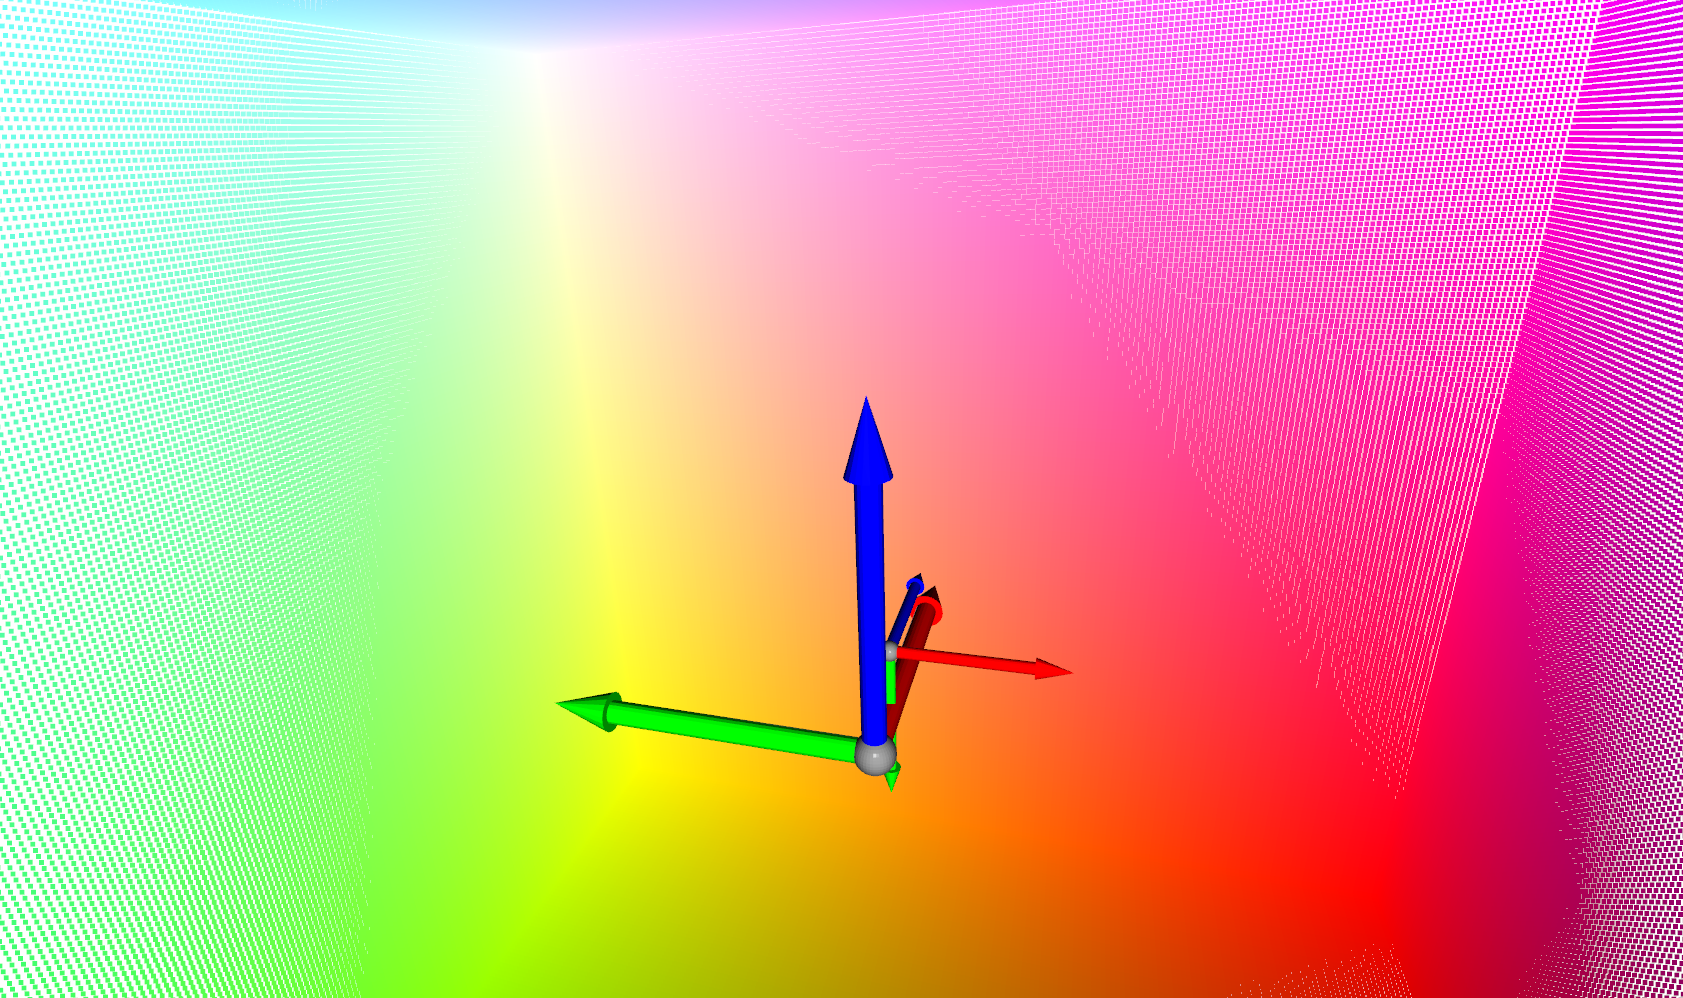
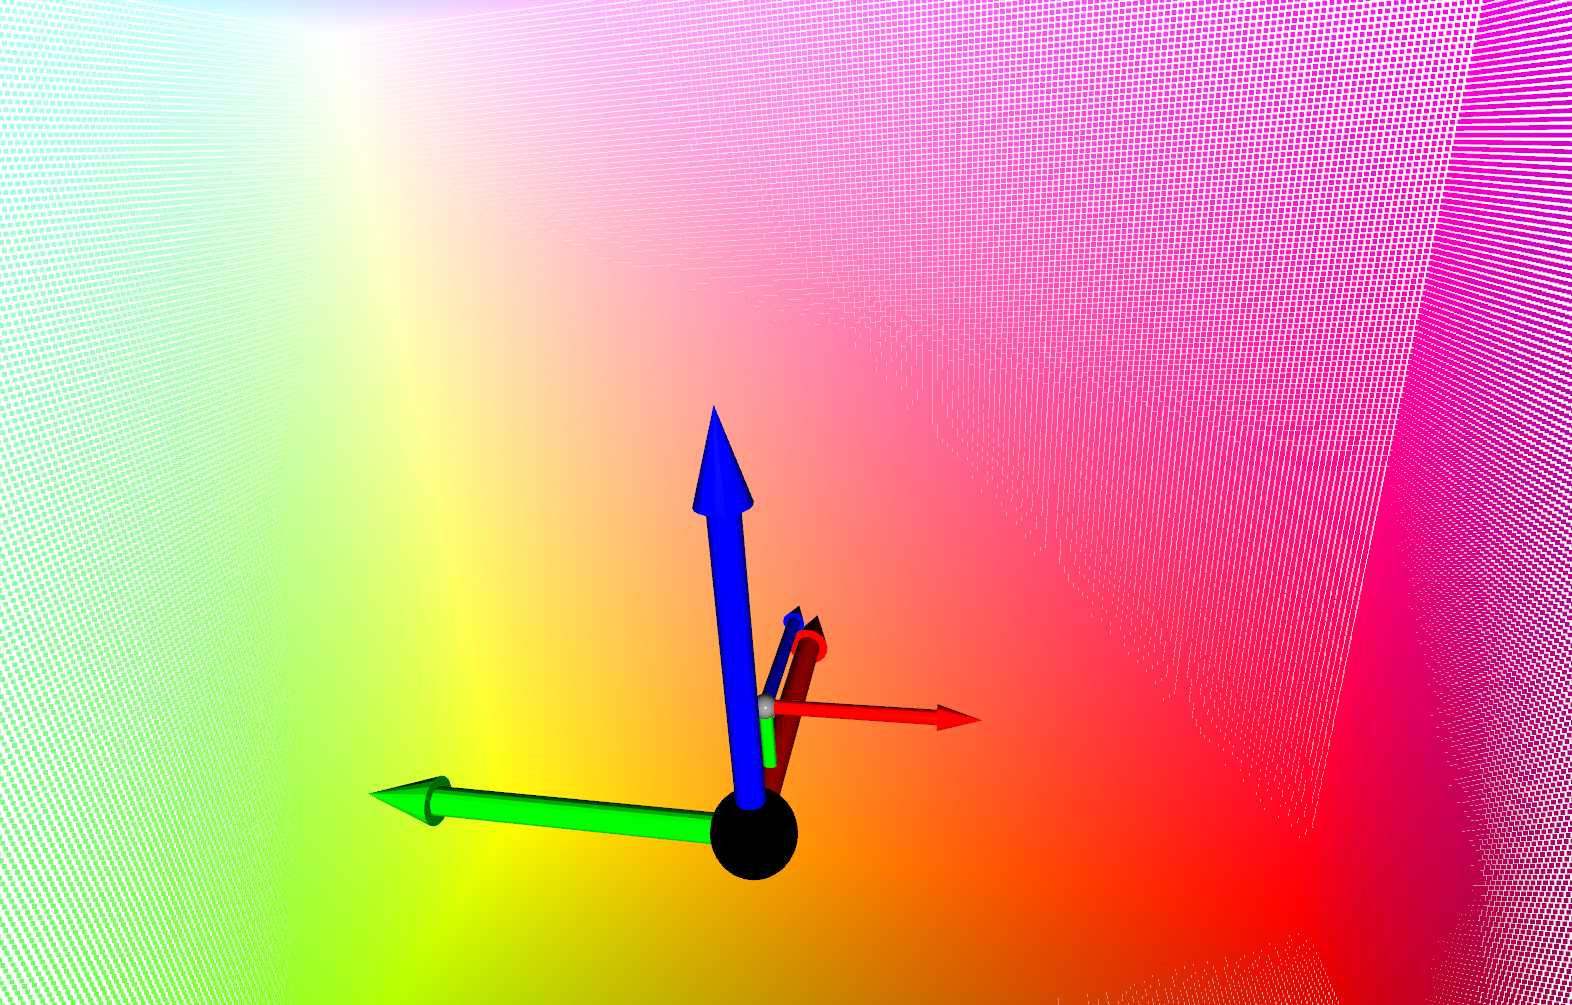
Initial demonstration completed.

diff --git a/pointcloud_projection.py b/pointcloud_projection.py
@@ -2,7 +2,6 @@ import open3d as o3d
 from image_geometry import PinholeCameraModel
 from sensor_msgs.msg import CameraInfo
 import yaml
-import pickle
 
 import numpy as np
 from skimage import draw
@@ -12,6 +11,7 @@ import spatialmath as sm
 import os
 import copy
 import time
+import cv2
 
 
 def init_camera_model(camera_model_path : str) -> PinholeCameraModel:
@@ -36,28 +36,34 @@ def init_camera_model(camera_model_path : str) -> PinholeCameraModel:
     return camera_model
 
 
-def project_to_image(pcd, radius: int = 20):
+def project_to_image(pcd, z_filter_on : bool = True, flip : bool = False, radius: int = 20):
+    # cv2.namedWindow("Image", cv2.WINDOW_NORMAL)
     image = np.ones((cam_model.height, cam_model.width, 3), dtype='uint8') * 255
-    for idx, (point, colour) in enumerate(zip(pcd.points, pcd.colors)):
 
-        x, y, z = point
-        if z < 0:
+    points = np.asarray(pcd.points)
+    colors = np.asarray(pcd.colors)
+    if flip:
+        # only doing this because by chance the ordering of the point cloud
+        # has the yellow-magenta side later than the blue-green side. So this
+        # is used to demonstrate importance of the z filter. All it does is reverse
+        # the order of the points in the array, it doesn't change the data itself
+        points = np.flipud(points)
+        colors = np.flipud(colors)
+
+    for (point, colour) in zip(points, colors):
+
+        x, y, z = point        
+        if z_filter_on and z < 0:
             continue # ignore points behind image plane
-
         (u,v) = cam_model.project3dToPixel((x, y, z))
-
-        if point[0] == 0 and point[1] == 0 and point[2] == 2:
-            print("u,v:",u,v, colour)
-
-        # print("IDX: %02d, (x,y): %f, %f, (u,v): %0.2f, %0.2f -- "%(idx, x, y, u, v), end='')
 
         # Paint pixel
         if (u >= 0 and v >= 0) and (u < cam_model.width and v < cam_model.height):
-            # print("Valid -- index: %02d, (x,y): %f, %f, (u,v): %0.2f, %0.2f, colour: %f, %f, %f"%(idx, x, y, u, v, *colour))
             rr, cc = draw.ellipse(v, u, r_radius=radius, c_radius=radius, shape=image.shape) #TODO this should be more complicated shape
             image[rr,cc,:] = colour*255
-        # else:
-            # print("Invalid")
+
+        # cv2.imshow("Image", image)
+        # cv2.waitKey(1)
     
     return image
 
@@ -88,34 +94,6 @@ def create_cube(cube_size, num_pts):
     return points, colours
 
 
-# def create_surface(side_size, num_pts, z_plane):
-#     # Create points vector
-#     xx, yy, zz = np.meshgrid(np.linspace(-side_size, side_size, num_pts), np.linspace(-side_size, side_size, num_pts), np.linspace(-side_size, side_size, num_pts))
-#     xx = xx.reshape(-1)
-#     yy = yy.reshape(-1)
-#     zz = zz.reshape(-1)
-
-#     points = np.zeros((xx.shape[0], 3))
-#     points[:,0] = xx
-#     points[:,1] = yy
-#     points[:,2] = z_plane
-
-#     points = np.unique(points, axis=0)
-#     print(points.shape)
-#     points = np.vstack([points, [0,0,z_plane]])
-#     print(points.shape)
-
-#     # Colour vector
-#     colours = np.zeros_like(points)
-#     colours[:,0] = (points[:,0] - points[:,0].min()) / (points[:,0].max() - points[:,0].min())
-#     colours[:,1] = (points[:,1] - points[:,1].min()) / (points[:,1].max() - points[:,1].min())
-#     colours[:,2] = (points[:,2] - points[:,2].min()) / (points[:,2].max() - points[:,2].min())
-#     colours[-1, :] = [0,0,1] # blue origin
-
-#     # Return points and colours
-#     return points, colours
-
-
 def visualise_coordinate_frames(camera_optical_frame):
     base_link_coord = o3d.geometry.TriangleMesh.create_coordinate_frame()
     base_link_coord.scale(1, center=(0, 0, 0))
@@ -128,6 +106,9 @@ def visualise_coordinate_frames(camera_optical_frame):
 
 
 def visualise_cube_and_coordinate_frames(pcd, camera_optical_frame):
+    origin_pcd = o3d.geometry.TriangleMesh.create_sphere(0.1)
+    origin_pcd.paint_uniform_color([0,0,0])
+
     base_link_coord = o3d.geometry.TriangleMesh.create_coordinate_frame()
     base_link_coord.scale(1, center=(0, 0, 0))
 
@@ -135,18 +116,34 @@ def visualise_cube_and_coordinate_frames(pcd, camera_optical_frame):
     camera_optical_coord.scale(0.5, center=(0, 0, 0))
     camera_optical_coord.transform(camera_optical_frame.A) 
 
-    o3d.visualization.draw_geometries([pcd, base_link_coord, camera_optical_coord])
+    o3d.visualization.draw_geometries([pcd, base_link_coord, camera_optical_coord, origin_pcd])
 
 
-def visualise_cube_results(pcd_original, pcd, image_original, image_trans, optical_frame):
-    f, (ax1, ax2) = plt.subplots(1,2)
-    ax1.imshow(image_original)
-    ax1.set_title("Original")
-    ax2.imshow(image_trans)
-    ax2.set_title("Transformed")
+def visualise_transformed_point_clouds(pcd_transform_correct, pcd_transform_incorrect, camera_optical_frame):
 
-    plt.show(block=False)
-    plt.pause(1)
+    # Create point cloud origin and transform by same amount as we did the actual point cloud
+    origin_pcd_transform_correct = o3d.geometry.TriangleMesh.create_sphere(0.1)
+    origin_pcd_transform_correct.transform(camera_optical_frame.inv().A)
+    origin_pcd_transform_correct.paint_uniform_color([0,0,0])
+
+    origin_pcd_transform_incorrect = o3d.geometry.TriangleMesh.create_sphere(0.1)
+    origin_pcd_transform_incorrect.transform(camera_optical_frame.A)
+    origin_pcd_transform_incorrect.paint_uniform_color([0,0,0])
+
+
+    # Create coordinate frames, where camera optical frame is now at the origin
+    base_link_coord = o3d.geometry.TriangleMesh.create_coordinate_frame()
+    base_link_coord.scale(1, center=(0, 0, 0))
+    base_link_coord.transform(camera_optical_frame.inv().A)
+    # camera frame is origin, so need to move base link frame by inverse of base link to optical frame
+
+    camera_optical_coord = o3d.geometry.TriangleMesh.create_coordinate_frame()
+    camera_optical_coord.scale(0.5, center=(0, 0, 0))
+
+    camera_optical_orig_coord = o3d.geometry.TriangleMesh.create_coordinate_frame()
+    camera_optical_orig_coord.scale(0.25, center=(0, 0, 0))
+    camera_optical_orig_coord.transform(camera_optical_frame.A)
+    # camera_optical_orig_coord.paint_uniform_color([0.2, 0.2, 0.2])
 
     # Open3d
     o3d.visualization.gui.Application.instance.initialize()
@@ -156,61 +153,47 @@ def visualise_cube_results(pcd_original, pcd, image_original, image_trans, optic
 
     w = o3d.visualization.gui.Application.instance.create_window()
 
-    # World Frame
-    world_coord = o3d.geometry.TriangleMesh.create_coordinate_frame()
-    world_coord.scale(1, center=(0, 0, 0))
+    # Correct Transform Scene
+    correct_scene = o3d.visualization.gui.SceneWidget()
+    correct_scene.scene = o3d.visualization.rendering.Open3DScene(w.renderer)
+    correct_scene.scene.add_geometry("Base", base_link_coord, mat)
+    correct_scene.scene.add_geometry("Optical", camera_optical_coord, mat)
+    correct_scene.scene.add_geometry("Pointcloud", pcd_transform_correct, mat)
+    correct_scene.scene.add_geometry("Origin", origin_pcd_transform_correct, mat)
+    # correct_scene.scene.add_geometry("OriginalCamera", camera_optical_orig_coord, mat)
+    correct_scene.setup_camera(60, correct_scene.scene.bounding_box, (0, 0, 0))
 
-    optical_coord = o3d.geometry.TriangleMesh.create_coordinate_frame()
-    optical_coord.scale(0.5, center=(0, 0, 0))
-    optical_coord.transform(optical_frame.A)
-
-    world_scene = o3d.visualization.gui.SceneWidget()
-    world_scene.scene = o3d.visualization.rendering.Open3DScene(w.renderer)
-    world_scene.scene.add_geometry("World", world_coord, mat)
-    world_scene.scene.add_geometry("Optical", optical_coord, mat)
-    world_scene.scene.add_geometry("Pointcloud", pcd_original, mat)
-    world_scene.setup_camera(60, world_scene.scene.bounding_box, (0, 0, 0))
-
-    # Optical Frame
-    optical_coord = o3d.geometry.TriangleMesh.create_coordinate_frame()
-    optical_coord.scale(0.5, center=(0, 0, 0))
-
-    world_coord = o3d.geometry.TriangleMesh.create_coordinate_frame()
-    world_coord.scale(1, center=(0, 0, 0))
-    world_coord.transform(optical_frame.inv().A)
-
-    optical_scene = o3d.visualization.gui.SceneWidget()
-    optical_scene.scene = o3d.visualization.rendering.Open3DScene(w.renderer)
-    optical_scene.scene.add_geometry("World", world_coord, mat)
-    optical_scene.scene.add_geometry("Optical", optical_coord, mat)
-    optical_scene.scene.add_geometry("Pointcloud", pcd, mat)
-    optical_scene.setup_camera(60, optical_scene.scene.bounding_box, (0, 0, 0))
+    # Incorrect Transform Scene
+    incorrect_scene = o3d.visualization.gui.SceneWidget()
+    incorrect_scene.scene = o3d.visualization.rendering.Open3DScene(w.renderer)
+    incorrect_scene.scene.add_geometry("Base", base_link_coord, mat)
+    incorrect_scene.scene.add_geometry("Optical", camera_optical_coord, mat)
+    incorrect_scene.scene.add_geometry("Pointcloud", pcd_transform_incorrect, mat)
+    incorrect_scene.scene.add_geometry("Origin", origin_pcd_transform_incorrect, mat)
+    # incorrect_scene.scene.add_geometry("OriginalCamera", camera_optical_orig_coord, mat)
+    incorrect_scene.setup_camera(60, incorrect_scene.scene.bounding_box, (0, 0, 0))
 
     # Add Child
-    w.add_child(world_scene)
-    w.add_child(optical_scene)
+    w.add_child(correct_scene)
+    w.add_child(incorrect_scene)
 
     def on_layout(theme):
         r = w.content_rect
-        world_scene.frame = o3d.visualization.gui.Rect(r.x, r.y, r.width / 2, r.height)
-        optical_scene.frame = o3d.visualization.gui.Rect(r.x + r.width / 2 + 1, r.y, r.width / 2, r.height)
+        correct_scene.frame = o3d.visualization.gui.Rect(r.x, r.y, r.width / 2, r.height)
+        incorrect_scene.frame = o3d.visualization.gui.Rect(r.x + r.width / 2 + 1, r.y, r.width / 2, r.height)
 
     w.set_on_layout(on_layout)
 
     o3d.visualization.gui.Application.instance.run()
 
 
-# def visualise_surface_results(pcd_original, image_original, block=False):
-#     # Image Vis
-#     plt.imshow(image_original)
-#     plt.show(block=block)
-#     plt.pause(1)
+def visualise_image(image):
+    f, (ax1) = plt.subplots(1,1)
+    ax1.imshow(image)
+    ax1.set_title("Image")
 
-#     # Open3d Vis
-#     world_coord = o3d.geometry.TriangleMesh.create_coordinate_frame()
-#     world_coord.scale(1, center=(0, 0, 0))
+    plt.show(block=True)
 
-#     o3d.visualization.draw_geometries([pcd_original, world_coord])
 
 
 
@@ -235,25 +218,32 @@ if __name__ == "__main__":
     pcd.colors = o3d.utility.Vector3dVector(colours)
 
     # Visualise point cloud and coordinate frames
-    print("\nVisualise the coloured cube point cloud")
-    # visualise_cube_and_coordinate_frames(pcd, camera_optical_frame)
+    print("\nVisualise the coloured cube")
+    visualise_cube_and_coordinate_frames(pcd, camera_optical_frame)
     
     # Copy original and transform point cloud to optical frame
-    pcd_original = copy.deepcopy(pcd)
-    pcd.transform(camera_optical_frame.A)
-    print(camera_optical_frame.inv())
-    print(camera_optical_frame.inv().rpy())
-    exit(0)
+    # Let's transform using current and inverse of camera optical frame transform
+    print("\nTransform the point cloud.")
+    pcd_transform_correct = copy.deepcopy(pcd)
+    pcd_transform_correct.transform(camera_optical_frame.inv().A)
 
-    # Project to image
-    image_original = project_to_image(pcd_original)
-    image_trans = project_to_image(pcd)
+    pcd_transform_incorrect = copy.deepcopy(pcd)
+    pcd_transform_incorrect.transform(camera_optical_frame.A)
+
+    # Visualise the two transformed point clouds
+    # visualise_transformed_point_clouds(pcd_transform_correct, pcd_transform_incorrect, camera_optical_frame)
+
+
+    # Project to image and visualise image
+    print("\nProjecting Image... without z-filter")
+    projected_image = project_to_image(pcd_transform_correct, False, True)
+    visualise_image(projected_image)
+
+    print("\nProjecting Image... with z-filter")
+    projected_image = project_to_image(pcd_transform_correct)
+    visualise_image(projected_image)
 
     # Visualisation
-    # if test == 'surface':
-    #     # print(image_trans[int(cam_model.height/2), int(cam_model.width/2), :])
-    #     visualise_surface_results(pcd_original, image_original, plot_blocks)
-    # else:
-    visualise_cube_results(pcd_original, pcd, image_original, image_trans, camera_optical_frame)
+    # visualise_cube_results(pcd_original, pcd, image_original, image_trans, camera_optical_frame)
 
 

diff --git a/README.md b/README.md
@@ -1,6 +1,6 @@
 # Understanding How To Project 3D Points Onto An Image Plane In ROS
 
-This is a short demonstration and tutorial on how you can project 3D points into an image using the [Image Geometry](http://docs.ros.org/en/kinetic/api/image_geometry/html/python/index.html) python module. Unfortunately, the documentation of the model is limited and doesn't define if the x, y, z coordinates for a point need to be in the optical or body frame of the camera (see [Suffix Frames in REP103](https://www.ros.org/reps/rep-0103.html#suffix-frames) for information on body vs optical frames for cameras). Additionally, the `project3dToPixel` image geometry function only can handle a single point at a time, this is computational inefficient and we can rewrite this function in Python to utilise Numpy to allow the projection of any number of points with a single call.
+This is a short demonstration and tutorial on how you can project 3D points into an image using the [Image Geometry](http://docs.ros.org/en/kinetic/api/image_geometry/html/python/index.html) python module. Unfortunately, the documentation of the model is limited and doesn't define if the x, y, z coordinates for a point need to be in the optical or body frame of the camera (see [Suffix Frames in REP103](https://www.ros.org/reps/rep-0103.html#suffix-frames) for information on body vs optical frames for cameras). Additionally, the `project3dToPixel` image geometry function only can handle a single point at a time, this is computational inefficient and we can rewrite this function in Python to utilise Numpy to allow the projection of any number of points with a single call. A working version of all the code can be found in [pointcloud_projection](pointcloud_projection.py)
 
 ## Getting Coordinate Frames Correct
 The first thing we will investigate is what coordinate frame a point must be in, before it is passed to the `project3dToPixel` function. To do this we will first create and visualise two coordinate frames and a coloured cube using the [SpatialMath](https://github.com/petercorke/spatialmath-python) and [Open3D](http://www.open3d.org/) libraries. The larger coordinate frame in the image below represents our base link frame, while the smaller frame is the optical frame of our camera and is located at [0.2, 0, 0.2] relative to our base link coordinate frame. Remember that for a optical frame the z-axis points forward, the x-axis to the right, and the y-axis down, as specified by [REP103](https://www.ros.org/reps/rep-0103.html). The cube is nicely coloured and the origin of the cube is at [0, 0, 0] and hence the origin is the same location as the base_link coordinate frame.
@@ -9,7 +9,7 @@ The first thing we will investigate is what coordinate frame a point must be in,
 
 ![Rotating Cube](/figures/cube_rotation.gif)
 
-If we now take at a look at position our coordinates frames inside the cube we can see that our base link and camera optical frame are pointing at the edge where yellow is in the bottom left and magenta is in the top right. Therefore, when we project the points onto an image we should have yellow in the bottom left and magenta in the top right. Let's see how we can make that happen.
+If we now take at a look at position our coordinates frames inside the cube we can see that our base link and camera optical frame are pointing at the edge where yellow is in the bottom left and magenta is in the top right. The black sphere represents the center of the point cloud and is located at [0, 0, 0]. Given this image, we can see that when we project the points onto an image we should have yellow in the bottom left and magenta in the top right. Let's see how we can make that happen.
 
 ![Inside The Cube](/figures/inside_cube.png)
 
@@ -20,16 +20,76 @@ import spatialmath as sm
 camera_optical_frame = sm.SE3(0.2, 0, 0.2) * sm.SE3.Ry(90, unit='deg') * sm.SE3.Rz(-90, unit='deg')
 ```
 
-We now have the base link to camera optical frame transform, and we need to shift our points into the camera frame. To do this we are going to use the following piece of sudo code:
+We now have the base link to camera optical frame transform, and we need to shift our points into the camera frame. To do this we are going to use the following piece of pseudo-code:
 
 ```python
 <open3d.geometry.PointCloud>.transform(<spatialmath.SE3>.A)
 ```
 
-where `<open3d.geometry.PointCloud>` is an Open3D point cloud containing the points we need to tranforms and `<spatialmath.SE3>` is a Spatial Math SE3 object that represents the appropriate transformation. You might intuitively think that the appropriate transformation is the base link to camera optical frame transform (the one we setup in the code snippet above). However, we actually want the inverse of this transform. Why? Well we want the camera optical frame to become the "origin". If that seems a little odd, think of this way. We want to move the camera optical frame "back" to the base link frame, which is the inverse of the base link to camera optical frame. By doing this we will move the location of the camera optical frame back to where the base link frame is now, and hence make the x, y, z points of our cube relative to the camera optical frame. So, to transform our point cloud cube we would do the following:
+where `<open3d.geometry.PointCloud>` is an Open3D point cloud containing the points we need to tranforms and `<spatialmath.SE3>` is a Spatial Math SE3 object that represents the appropriate transformation. You might intuitively think that the appropriate transformation is the base link to camera optical frame transform (the one we setup in the code snippet above). However, we actually want the inverse of this transform. Why? Well we want the camera optical frame to become the "origin". If that seems a little odd, think of this way. We want to move the camera optical frame "back" to the base link frame, which is the inverse of the base link to camera optical frame transform. By doing this we will move the location of the camera optical frame back to where the base link frame is now, and hence make the x, y, z points of our cube relative to the camera optical frame. So, to transform our point cloud cube we would do the following:
 
 ```python
 pcd.transform(camera_optical_frame.inv().A)
 ```
 
-The images below show the the transform when we don't do the inverse and when we do the inverse. The origin of the point cloud is represented by the large black point.
+The image below shows the transform when we do the inverse and when we don't do the inverse. The larger coordinate frame represents the base link frame, and the smaller coordinate frame represents the camera optical frame. The center of the point cloud is represented by the black sphere. Remember, we want the camera optical frame to be at [0, 0, 0] and so everything is visualised relative to it. So as we can see, in the left hand side of the image, the black sphere remains at the same location as the base link frame. However, in the right hand side of the image, where we have done `pcd.transform(camera_optical_frame.A)` (i.e., have done the base link to camera optical frame transform, rather than the inverse), the black sphere no longer aligns with the base link coordinate frame. In fact, if we considered the smaller coordinate frame, the one representing the camera optical frame, to be the base link frame, the position of the black sphere is in the location of where the camera optical frame would be (i.e., at [0.2, 0, 0.2]). We can also see that in the left hand image, where the inverse transform was used, our camera z-axis is still pointing at yellow in the bottom left and magenta in the bottom right. This is not the case for the right hand side of the image where the incorrect transform was used. Hopefully, this has demonstrated why we need to do the inverse of the base link to camera optical frame transform when shifting the point cloud. Now onto projecting the points onto the image plane.
+
+![Transform Comparison](/figures/transform_comparison.png)
+
+To project 3D points onto a image plane we need the projection matrix `P`. In a ROS environment we can obtain the projection matrix of a camera through the `camera_info` message. In fact, we can use a camera info topic and the Image Geometry module to create a pin hole camera model object, and utilise the class function `project3dToPixel` to project our 3D points. This class function utilises the projection matrix under the hood. Here is the code snippet to read in a camera info message stored as a YAML file and create a PinholeCameraModel object.
+
+```python
+def init_camera_model(camera_model_path : str) -> PinholeCameraModel:
+    
+    with open(camera_model_path, 'rb') as f:
+        camera_info = yaml.load(f, Loader=yaml.FullLoader)
+
+        # Construct camera model from YAML
+        ci = CameraInfo()
+        ci.header.stamp = 0
+        ci.header.frame_id = camera_info["header"]['frame_id']
+        ci.width = camera_info['width']
+        ci.height = camera_info['height']
+        ci.distortion_model = camera_info['distortion_model']
+        ci.D = camera_info['D']
+        ci.K = camera_info['K']
+        ci.P = camera_info['P']
+        ci.R = camera_info['R']
+        camera_model = PinholeCameraModel()
+        camera_model.fromCameraInfo(ci)
+
+    return camera_model
+```
+
+Unfortunately, the documentation of the `project3dToPixel` doesn't specify the coordinate frame a point needs to be when projecting. If you know you're projection maths, you can look at the source code and determine which frame the points need to be in. However, let's assume we don't know the projection maths and so, we shall try the two obvious versions. The two obvious versions are body and optical frames of the camera. Remember, the optical frame is a rotation of 90 degree rotation about the y-axis, followed by a -90 degree rotation in the z-axis of the camera body frame. In other words, we have the following mapping:
+
+* `x in the body frame = z in the optical frame`
+* `y in the body frame = -x in the optical frame`
+* `z in the body frame = -y in the optical frame`
+
+Rather than extending out this demonstration and going through the incorrect first one first, I am just going to tell you the `project3dToPixel` functions expects the points in the camera optical frame. You can use the mapping above if you have transformed your points into the body frame. The code to project our points would be as follows:
+
+```python
+for point in points:
+    x,y,z = point # point is in optical frame
+    (u,v) = cam_model.project3dToPixel((x, y, z)) # use the mapping above to map body frame to optical frame if required
+```
+
+If we do that we get the following projected image.
+
+![Projected Image 1](/figures/projected_image_1.png)
+
+Woah, what has happened here? The function has projected the points behind camera onto the image plane. We can easily fix this by filtering out points behind the camera. The code to do so is simply:
+
+```python
+for point in points:
+    x,y,z = point # point is in optical frame
+    if z < 0: # ignore points behind the camera
+        continue
+
+    (u,v) = cam_model.project3dToPixel((x, y, z)) 
+```
+
+Okay that looks better. We are getting what we expected, yellow in the bottom-left and magenta in the top-right. 
+
+![Projected Image 2](/figures/projected_image_2.png)
